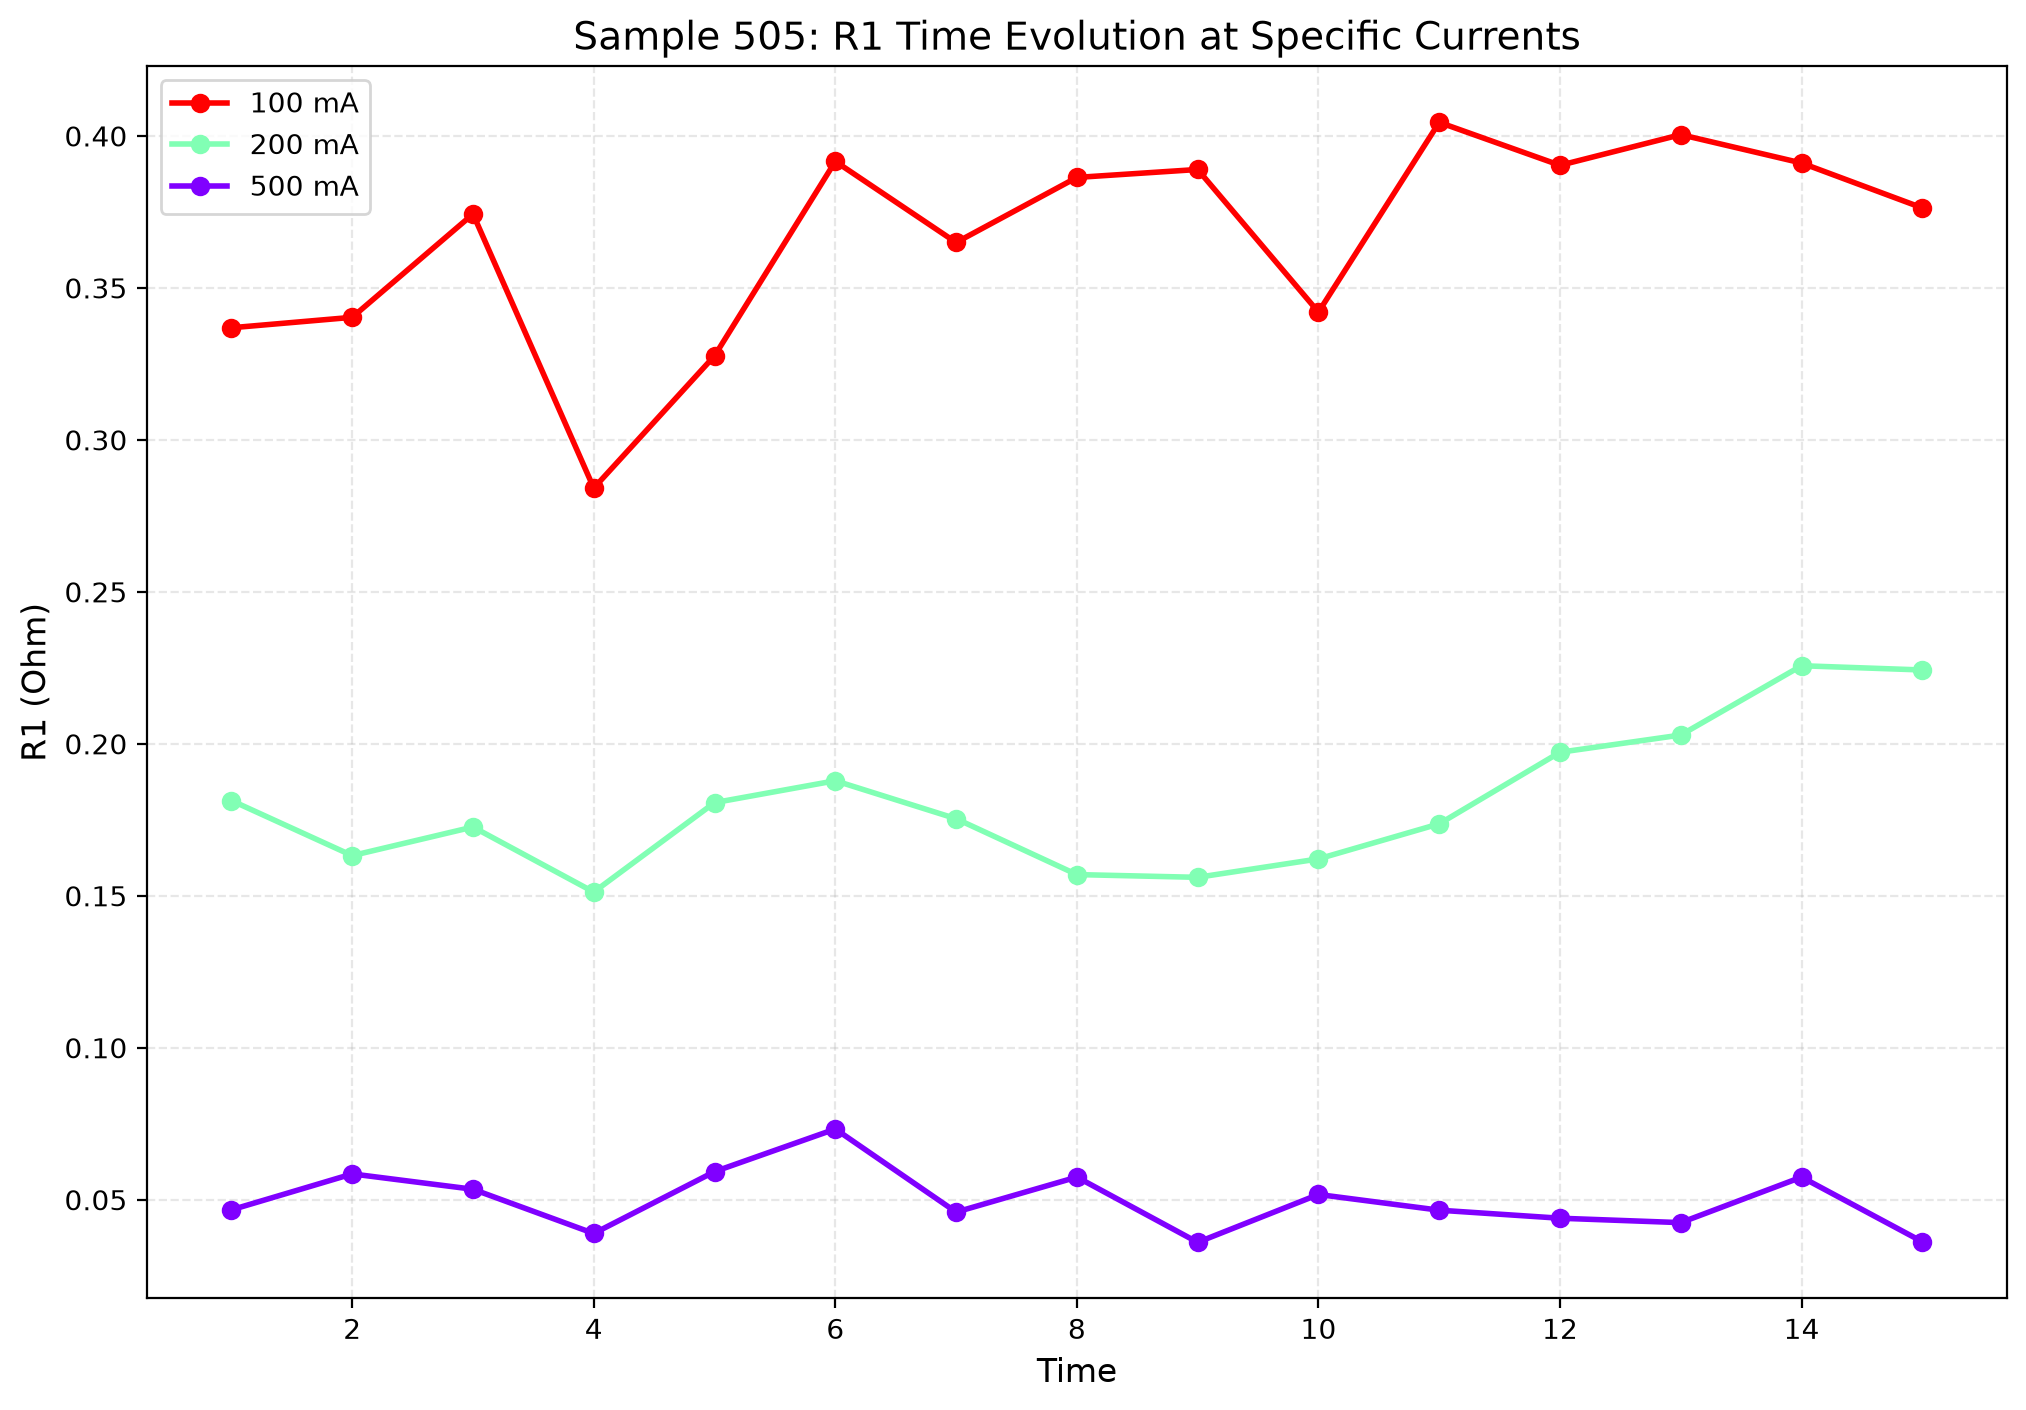
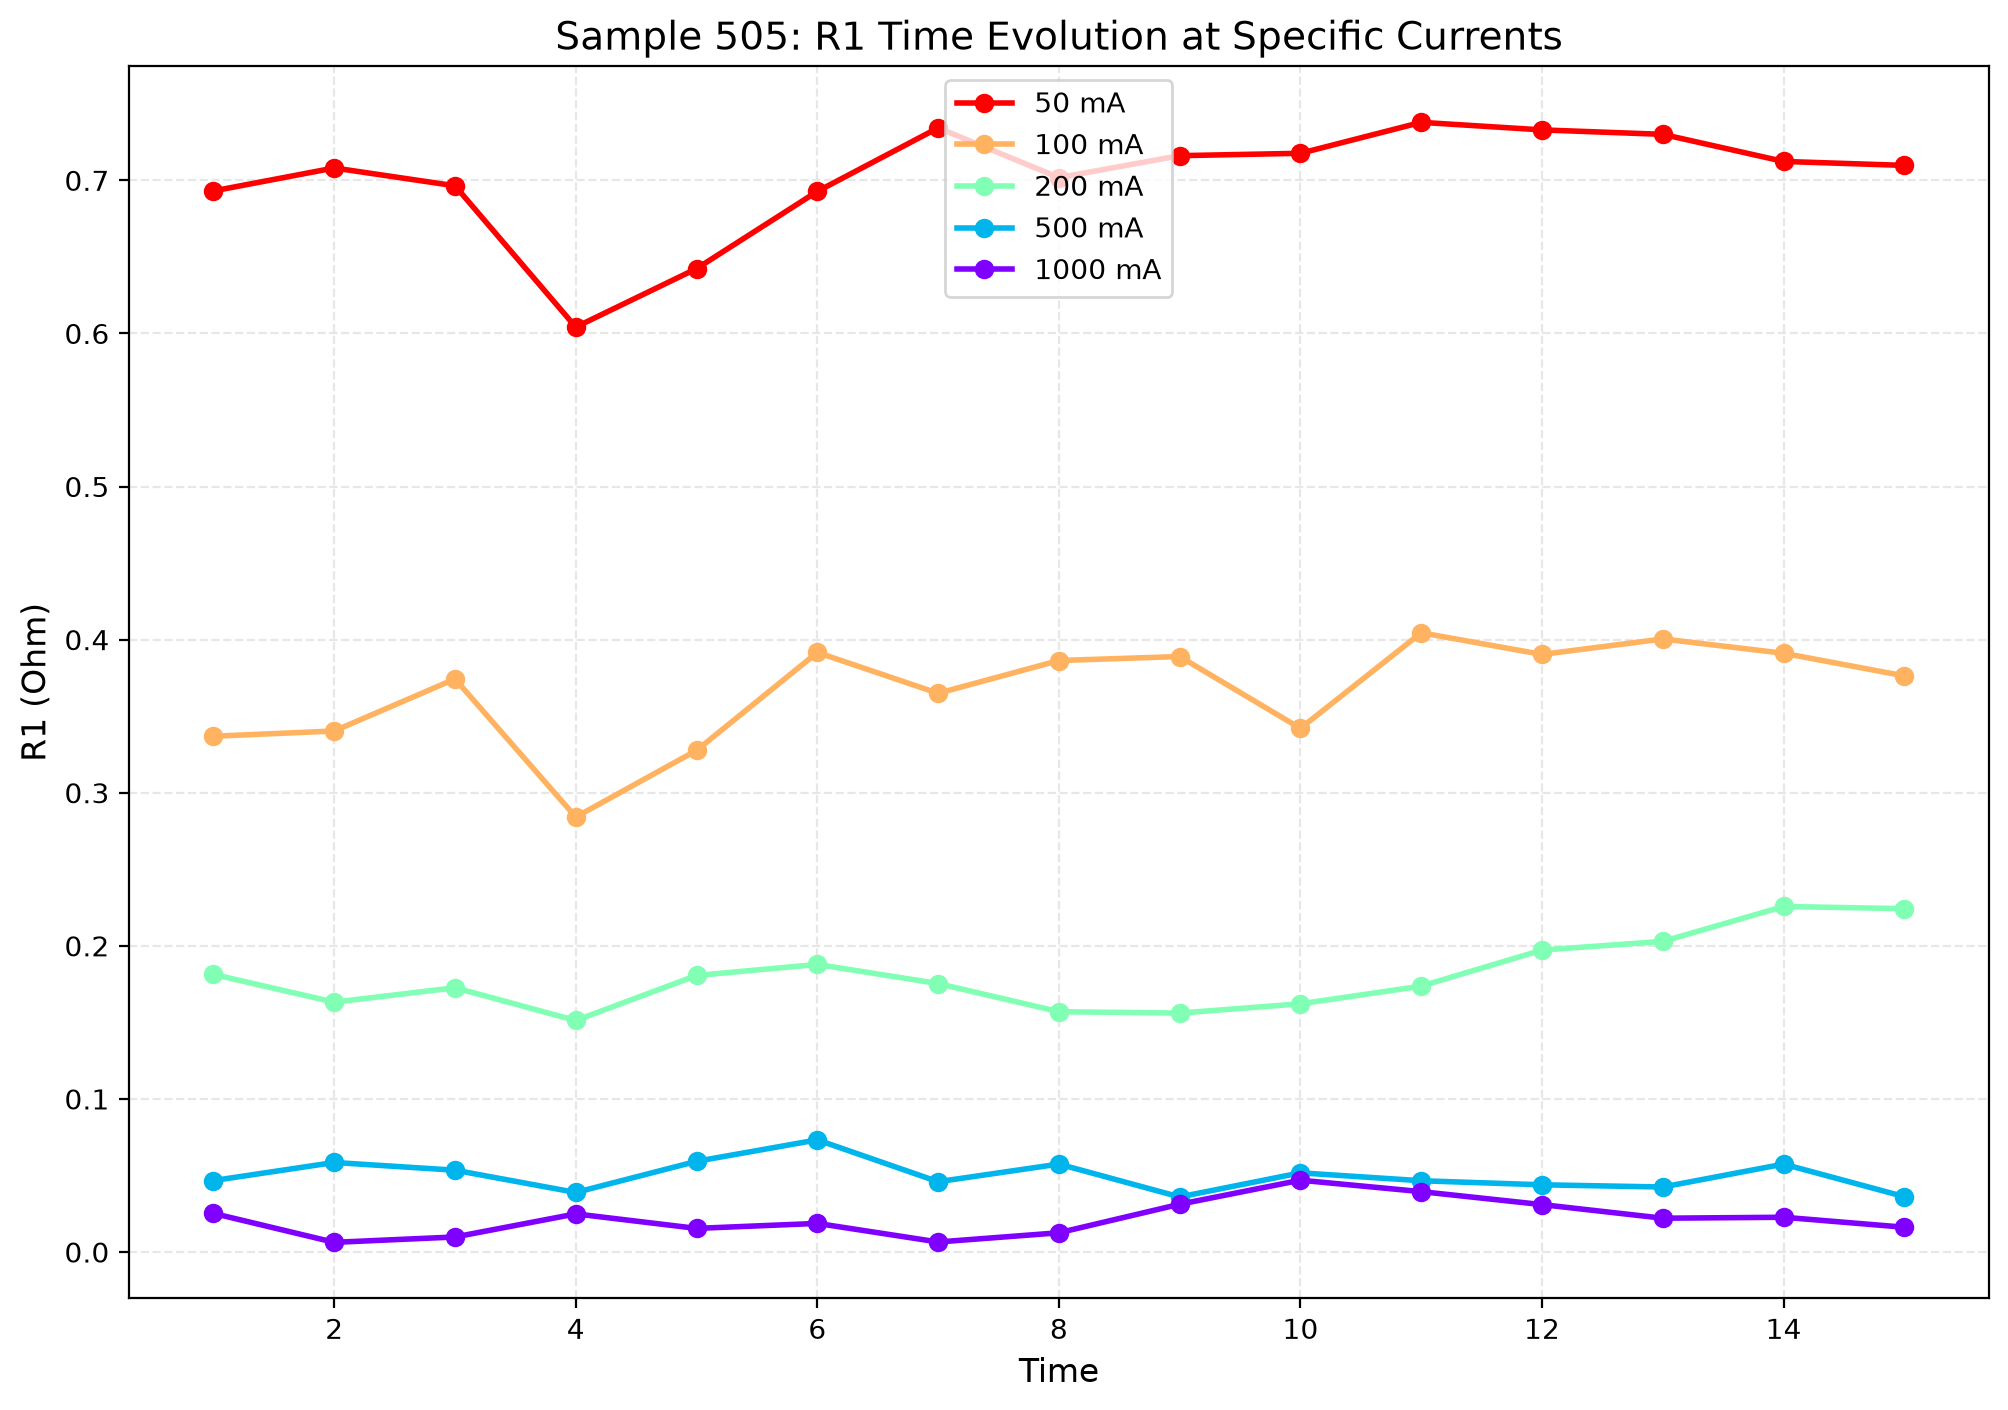
Update plot_r1_at_current with 50 and 1000 mA, run for all samples
- Added 50 mA and 1000 mA to target currents
- Ran for all AEM samples (474, 498, 499, 505)
- Updated guide with script reference
- Output: {sample_id}_R1_evolution_at_currents.png in each sample folder,

diff --git a/AEMs/scripts/plot_r1_at_current.py b/AEMs/scripts/plot_r1_at_current.py
@@ -24,7 +24,7 @@ plt.ioff()
 SAMPLES = ['474', '498', '499', '505']
 
 # Target currents for interpolation (mA)
-TARGET_CURRENTS = [100, 200, 500]
+TARGET_CURRENTS = [50, 100, 200, 500, 1000]
 
 # Plot configuration
 PLOT_DPI = 200

diff --git a/AEMs/AEM_EIS_FITTING_GUIDE.md b/AEMs/AEM_EIS_FITTING_GUIDE.md
@@ -41,6 +41,8 @@ For new samples, work in the respective sample folder (`AEMs/sample_XXX/`). Crea
 2. **`scripts/r0_linear_fit_analysis.py`** - Ohmic resistance R0 linear fit analysis
 3. **`scripts/c2_r2_c3_r3_linear_fit_analysis.py`** - Combined analysis for C2, R2, C3, R3
 4. **`scripts/tafel_analysis_all_samples.py`** - Tafel slope analysis
+5. **`scripts/plot_all_resistances.py`** - Plot all resistances (R0, R1, R2, R3) vs Current and vs Cell Voltage
+6. **`scripts/plot_r1_at_current.py`** - Plot Time evolution of R1 at specific currents (50, 100, 200, 500, 1000 mA)
 
 ### Setup for New Samples
 1. Add the new sample ID to the `SAMPLES` list in each script
